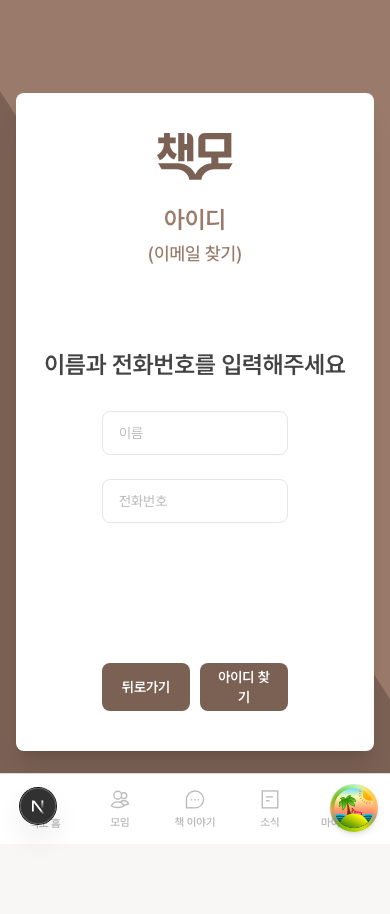
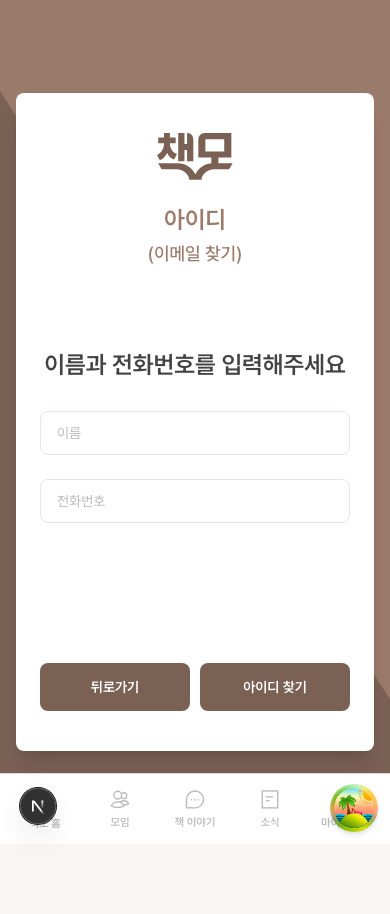
fix(responsive): 계정 찾기 입력칸 전체폭 + 버튼 줄바꿈 해소
- FindAccountPageClient: 입력/버튼 래퍼에 w-full 추가
  (비밀번호 찾기와 동일) → 입력칸 카드 전체폭, "아이디 찾기" 버튼 한 줄로 표시
- find-account-m-after 스크린샷 갱신

diff --git a/src/app/(public)/find-account/FindAccountPageClient.tsx b/src/app/(public)/find-account/FindAccountPageClient.tsx
@@ -63,7 +63,7 @@ export default function FindAccountPageClient() {
                     </p>
                 </div>
 
-                <div className="flex flex-col items-center gap-[140px]">
+                <div className="flex flex-col items-center gap-[140px] w-full">
                     <div className="flex flex-col items-start gap-[24px] w-full max-w-[526px]">
                         <InputField
                             type="text"